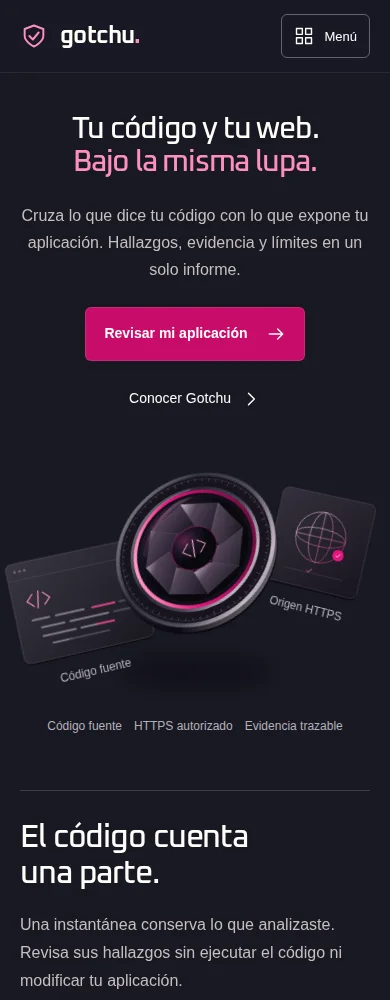
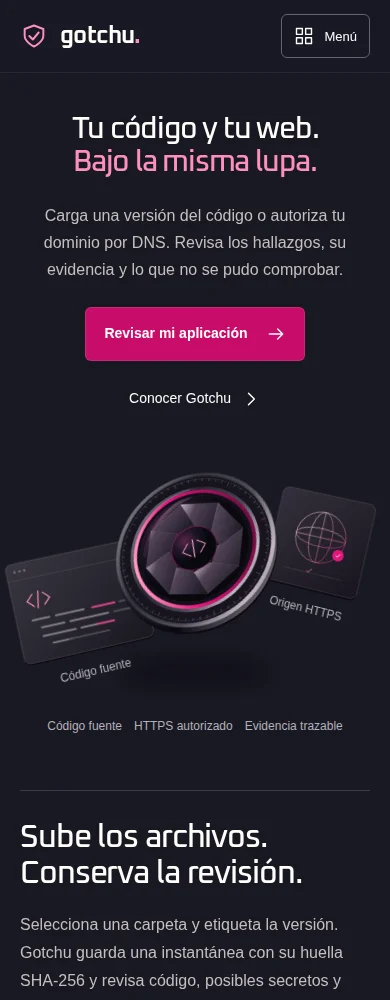
feat(web): make actual assessment workflows visible on the landing

Changed region(s): [[0.0615, 0.806, 0.8923, 0.992], [0.0615, 0.186, 0.9231, 0.279]]

diff --git a/apps/web/src/components/landing.tsx b/apps/web/src/components/landing.tsx
@@ -1,17 +1,18 @@
 import { useRef, useState, type KeyboardEvent } from 'react';
 import { Brand, UiIcon } from './ui';
 import { EvidenceLens, useChapterTracking } from './evidence-lens';
+import { ProductFlow } from './product-flow';
 import './landing.css';
 
 const perspectives = [
-  { id: 'code', label: 'Código', title: 'Lo que está en tu código.', description: 'Revisa una instantánea de tu aplicación sin ejecutarla. Conserva la versión analizada y la evidencia de cada hallazgo.', facts: ['Instantáneas inmutables', 'Análisis sin ejecutar tu código', 'Hallazgos vinculados a evidencia'], icon: 'code' },
-  { id: 'https', label: 'HTTPS', title: 'Lo que responde tu aplicación.', description: 'Evalúa la superficie HTTPS de un origen que controlas. Puedes empezar sin compartir el código fuente.', facts: ['Autorización mediante DNS', 'Evaluación sin acceso al código', 'Cobertura y límites por comprobación'], icon: 'globe' },
+  { id: 'code', label: 'Código', title: 'Lo que está en tu código.', description: 'Revisa una instantánea de tu aplicación sin ejecutarla. Conserva la versión analizada y la evidencia de cada hallazgo.', facts: ['Patrones de código y posibles secretos', 'Avisos de dependencias cuando están disponibles', 'Revisión y huella de los archivos analizados'], icon: 'code' },
+  { id: 'https', label: 'HTTPS', title: 'Lo que responde tu aplicación.', description: 'Revisa la respuesta HTTPS de un origen que controlas, sin cookies ni redirecciones. Puedes empezar sin compartir el código fuente.', facts: ['Autorización mediante DNS', 'Evaluación sin acceso al código', 'Cobertura y límites por comprobación'], icon: 'globe' },
   { id: 'both', label: 'Ambas', title: 'Dos perspectivas. Un informe.', description: 'Contrasta las señales de la instantánea con las del origen autorizado. Identifica coincidencias y diferencias sin perder su procedencia.', facts: ['Evaluación interna y externa', 'Comparación de hallazgos', 'Evidencia de cada perspectiva'], icon: 'report' },
 ] as const;
 const chapters = [
-  { title: 'El código cuenta una parte.', text: 'Una instantánea conserva lo que analizaste. Revisa sus hallazgos sin ejecutar el código ni modificar tu aplicación.', detail: 'Código fuente', id: 'codigo' },
-  { title: 'Tu web cuenta otra.', text: 'Observa cómo responde el origen HTTPS que autorizaste. Una segunda perspectiva, incluso sin acceso al código.', detail: 'HTTPS autorizado', id: 'https' },
-  { title: 'La evidencia las conecta.', text: 'Encuentra qué se observó, dónde y con qué confianza. Compara ambas perspectivas y lleva el contexto a la siguiente revisión de tu equipo.', detail: 'Hallazgos · Cobertura · Comparación', id: 'evidencia' },
+  { title: 'Sube los archivos. Conserva la revisión.', text: 'Selecciona una carpeta y etiqueta la versión. Gotchu guarda una instantánea con su huella SHA-256 y revisa código, posibles secretos y dependencias según el perfil disponible.', detail: 'Instantánea', id: 'codigo' },
+  { title: 'Tu dominio. Tu autorización.', text: 'Registra un origen HTTPS, confirma que puedes evaluarlo y publica el registro TXT que te entrega Gotchu. La evaluación externa puede iniciarse sin subir código.', detail: 'Autorización DNS', id: 'https' },
+  { title: 'Del hallazgo a su evidencia.', text: 'Abre una observación para revisar su severidad, confianza, extractos y herramienta de origen. Consulta la cobertura, contrasta ambas perspectivas y descarga el informe completo en JSON.', detail: 'Informe y evidencia', id: 'evidencia' },
 ];
 const questions = [
   ['¿Tengo que compartir mi código?', 'No. Puedes evaluar únicamente un origen HTTPS autorizado. Para el análisis interno, cargas una instantánea del código que quieres revisar.'],
@@ -49,14 +50,14 @@ export function LandingPage() {
     <main id="contenido" tabIndex={-1}>
       <section className="g-hero" aria-labelledby="hero-title">
         <h1 id="hero-title">Tu código y tu web.<br /><span>Bajo la misma lupa.</span></h1>
-        <p className="g-hero-description">Cruza lo que dice tu código con lo que expone tu aplicación. Hallazgos, evidencia y límites en un solo informe.</p>
+        <p className="g-hero-description">Carga una versión del código o autoriza tu dominio por DNS. Revisa los hallazgos, su evidencia y lo que no se pudo comprobar.</p>
         <div className="g-hero-actions"><a className="g-button" href="/dashboard">Revisar mi aplicación <UiIcon name="arrow" /></a><a className="g-secondary-link" href="#perspectivas">Conocer Gotchu <UiIcon name="chevron" /></a></div>
         <EvidenceLens />
         <div className="g-hero-foot"><span>Código fuente</span><span>HTTPS autorizado</span><span>Evidencia trazable</span></div>
       </section>
       <section ref={container} className="g-journey g-container" aria-label="Del análisis a la evidencia">
-        <div className="g-journey-visual"><EvidenceLens compact perspective={active} /><div className="g-chapter-marker" aria-hidden="true">{chapters.map((chapter, index) => <span key={chapter.id} className={active === index ? 'is-current' : ''}><span />{chapter.detail}</span>)}</div></div>
-        <div className="g-chapters">{chapters.map((chapter, index) => <article key={chapter.id} id={chapter.id} data-chapter={index}><h2>{chapter.title}</h2><p>{chapter.text}</p></article>)}</div>
+        <div className="g-journey-visual"><ProductFlow step={active} /><div className="g-chapter-marker" aria-hidden="true">{chapters.map((chapter, index) => <span key={chapter.id} className={active === index ? 'is-current' : ''}><span />{chapter.detail}</span>)}</div></div>
+        <div className="g-chapters">{chapters.map((chapter, index) => <article key={chapter.id} id={chapter.id} data-chapter={index}><h2>{chapter.title}</h2><p>{chapter.text}</p><ProductFlow step={index} className="g-mobile-flow" /></article>)}</div>
       </section>
       <section id="perspectivas" className="g-perspectives" aria-labelledby="perspectives-title">
         <div className="g-container"><div className="g-perspectives-heading"><h2 id="perspectives-title">Empieza donde<br />lo necesitas.</h2><p>Una aplicación. Tres formas de revisarla.<br />Tú eliges el alcance.</p></div>
@@ -66,6 +67,7 @@ export function LandingPage() {
           </div>
         </div>
       </section>
+      <section className="g-workflow g-container" aria-labelledby="workflow-title"><h2 id="workflow-title">Cada revisión, en su sitio.</h2><dl><div><dt>Espacios y aplicaciones</dt><dd>Organiza tus aplicaciones por espacio de trabajo y conserva los permisos de cada rol.</dd></div><div><dt>Historial de evaluaciones</dt><dd>Sigue los trabajos en cola o en curso y vuelve a consultar los informes guardados.</dd></div><div><dt>Exportación JSON</dt><dd>Descarga el informe completo con sus hallazgos, evidencia, cobertura y limitaciones.</dd></div></dl><a className="g-secondary-link" href="/dashboard">Ir a mis aplicaciones <UiIcon name="arrow" /></a></section>
       <section id="preguntas" className="g-faq g-container" aria-labelledby="faq-title"><h2 id="faq-title">Antes de<br />dar el paso.</h2><div>{questions.map(([question, answer]) => <details key={question}><summary>{question}<span aria-hidden="true"><UiIcon name="plus" /></span></summary><p>{answer}</p></details>)}</div></section>
       <section className="g-closing" aria-labelledby="closing-title"><div className="g-container"><h2 id="closing-title">La próxima decisión.<br /><span>Con la evidencia a mano.</span></h2><a className="g-button" href="/dashboard">Empezar mi revisión <UiIcon name="arrow" /></a></div></section>
     </main>

diff --git a/apps/web/src/components/product-flow.css b/apps/web/src/components/product-flow.css
@@ -1,0 +1,58 @@
+.g-product-flow { position: relative; perspective: 1200px; padding: 18px 24px 22px 4px; }
+.g-flow-sheet { position: relative; min-height: 370px; background: var(--gc-surface); border: 1px solid var(--gc-line); border-radius: 6px; box-shadow: var(--gc-shadow-dialog); transform: rotateY(-5deg) rotateX(3deg); transform-style: preserve-3d; }
+.g-flow-sheet::before { content: ''; position: absolute; inset: 14px -13px -14px 13px; border: 1px solid var(--gc-line-soft); border-radius: inherit; background: var(--gc-raised); transform: translateZ(-14px); }
+.g-flow-sheet > header { display: flex; align-items: center; gap: 14px; padding: 22px 24px; border-bottom: 1px solid var(--gc-line-soft); }
+.g-flow-sheet > header > svg { color: var(--gc-accent-ink); flex-shrink: 0; }
+.g-flow-sheet h3 { font-size: 18px; line-height: 1.4; }
+.g-file-formats { display: flex; flex-wrap: wrap; gap: 8px; padding: 24px 24px 6px; }
+.g-file-formats code { padding: 7px 10px; border: 1px solid var(--gc-line); border-radius: 6px; font: 12px/1.5 var(--gc-font-code); color: var(--gc-paper); }
+.g-flow-fields { margin: 0; padding: 12px 24px; }
+.g-flow-fields > div { display: grid; grid-template-columns: 1fr 1.4fr; gap: 16px; padding-block: 16px; border-bottom: 1px solid var(--gc-line-soft); font-size: 14px; }
+.g-flow-fields > div:last-child { border-bottom: 0; }
+.g-flow-fields dt { color: var(--gc-paper); }
+.g-flow-fields dd { margin: 0; color: var(--gc-muted); }
+.g-source-checks { display: flex; flex-wrap: wrap; gap: 18px; padding: 4px 24px 24px; color: var(--gc-accent-ink); font-size: 12px; }
+.g-flow-sheet > footer { display: flex; align-items: center; gap: 10px; padding: 18px 24px; background: var(--gc-canvas); border-top: 1px solid var(--gc-line-soft); color: var(--gc-silver); font-size: 12px; border-radius: 0 0 6px 6px; }
+.g-flow-sheet > footer svg { color: var(--gc-accent-ink); flex-shrink: 0; }
+.g-flow-sheet > footer code { margin-left: auto; color: var(--gc-accent-ink); font-family: var(--gc-font-code); }
+.g-dns-record { margin: 24px; padding: 18px; background: var(--gc-canvas); border: 1px solid var(--gc-line-soft); border-radius: 6px; }
+.g-dns-record > span { display: block; color: var(--gc-muted); font-size: 12px; margin-bottom: 8px; }
+.g-dns-record code { color: var(--gc-accent-ink); font: 18px/1.5 var(--gc-font-code); overflow-wrap: anywhere; }
+.g-dns-steps { list-style: decimal; margin: 0; padding: 0 30px 22px 50px; font-size: 14px; }
+.g-dns-steps li { padding-block: 7px; color: var(--gc-silver); }
+.g-dns-steps li::marker { color: var(--gc-accent-ink); }
+.g-report-fields { padding-block: 6px; }
+.g-mobile-flow { display: none; }
+.g-workflow { padding-block: 76px 10px; }
+.g-workflow h2 { font-size: 32px; line-height: 1.25; letter-spacing: -.025em; }
+.g-workflow > dl { display: grid; grid-template-columns: repeat(3, 1fr); gap: 40px; margin: 34px 0 20px; }
+.g-workflow > dl > div { padding-top: 22px; border-top: 1px solid var(--gc-line); }
+.g-workflow dt { font-size: 18px; color: var(--gc-paper); margin-bottom: 12px; }
+.g-workflow dd { margin: 0; color: var(--gc-silver); font-size: 14px; }
+.g-workflow .g-secondary-link { color: var(--gc-accent-ink); }
+@media (prefers-reduced-motion: no-preference) {
+  .g-flow-sheet { animation: g-flow-change 200ms var(--gc-ease); }
+}
+@keyframes g-flow-change { from { opacity: .5; } to { opacity: 1; } }
+@media (max-width: 1050px) {
+  .g-product-flow { padding-right: 14px; }
+  .g-flow-sheet > header, .g-flow-sheet > footer { padding-inline: 18px; }
+  .g-flow-fields { padding-inline: 18px; }
+  .g-flow-fields > div { grid-template-columns: 1fr; gap: 6px; padding-block: 12px; }
+  .g-workflow > dl { gap: 24px; }
+}
+@media (max-width: 760px) {
+  .g-mobile-flow { display: block; margin-top: 24px; }
+  .g-product-flow { padding: 0 10px 14px 0; perspective: none; }
+  .g-flow-sheet { min-height: 0; transform: none; box-shadow: none; }
+  .g-flow-sheet::before { inset: 9px -9px -9px 9px; transform: none; z-index: -1; }
+  .g-flow-fields > div { grid-template-columns: 1fr 1.3fr; gap: 12px; }
+  .g-file-formats { padding-inline: 18px; gap: 6px; }
+  .g-file-formats code { padding: 6px 8px; }
+  .g-dns-record { margin-inline: 18px; }
+  .g-dns-record code { font-size: 16px; }
+  .g-workflow { padding-block: 44px 0; }
+  .g-workflow h2 { font-size: 28px; }
+  .g-workflow > dl { grid-template-columns: 1fr; gap: 24px; margin-top: 26px; }
+  .g-workflow > dl > div { padding-top: 18px; }
+}

diff --git a/apps/web/e2e/design.spec.ts b/apps/web/e2e/design.spec.ts
@@ -81,7 +81,7 @@ test('scroll narrative tracks chapters and does not trap page scrolling', async 
   await page.goto('/', { waitUntil: 'networkidle' });
   for (const [index, id] of ['codigo', 'https', 'evidencia'].entries()) {
     await page.locator(`#${id}`).evaluate(element => window.scrollTo(0, element.getBoundingClientRect().top + scrollY - innerHeight * .25));
-    if (!isMobile) await expect(page.locator('.g-scene-compact')).toHaveAttribute('data-perspective', String(index));
+    if (!isMobile) await expect(page.locator('.g-journey-visual .g-product-flow')).toHaveAttribute('data-step', String(index));
   }
   await page.locator('.g-footer').scrollIntoViewIfNeeded();
   await expect(page.getByRole('link', { name: 'Gotchu, volver al inicio' })).toBeVisible();
@@ -97,6 +97,27 @@ test('reduced motion and a 320px viewport retain all content without pointer or 
   await page.getByRole('tab', { name: 'HTTPS', exact: true }).click();
   await expect(page.getByRole('tabpanel')).toContainText('sin compartir el código fuente');
   expect(await page.locator('.g-hero h1').evaluate(element => getComputedStyle(element).animationName)).toBe('none');
+  await checkLayout(page); await checkA11y(page);
+});
+
+test('the product journey presents source versioning, DNS authorization and persisted report capabilities', async ({ page, isMobile }) => {
+  await page.goto('/', { waitUntil: 'networkidle' });
+  const steps = [
+    { id: 'codigo', title: 'Instantánea de código', text: 'Huella SHA-256' },
+    { id: 'https', title: 'Origen HTTPS', text: '_gotchu.<dominio>' },
+    { id: 'evidencia', title: 'Informe de evaluación', text: 'Extracto, herramienta y checksum' },
+  ];
+  for (const [index, step] of steps.entries()) {
+    await page.locator(`#${step.id}`).evaluate(element => window.scrollTo(0, element.getBoundingClientRect().top + scrollY - innerHeight * .25));
+    const flow = isMobile ? page.locator(`#${step.id} .g-mobile-flow`) : page.locator('.g-journey-visual .g-product-flow');
+    await expect(flow).toHaveAttribute('data-step', String(index));
+    await expect(flow.getByRole('heading', { name: step.title, exact: true })).toBeVisible();
+    await expect(flow).toContainText(step.text);
+  }
+  await expect(page.locator('.g-workflow')).toContainText('Historial de evaluaciones');
+  await expect(page.locator('.g-workflow')).toContainText('Exportación JSON');
+  await expect(page.getByRole('link', { name: 'Ir a mis aplicaciones', exact: true })).toHaveAttribute('href', '/dashboard');
+  await page.locator('.g-workflow').scrollIntoViewIfNeeded();
   await checkLayout(page); await checkA11y(page);
 });
 

diff --git a/apps/web/src/components/product-flow.tsx b/apps/web/src/components/product-flow.tsx
@@ -1,0 +1,24 @@
+import { UiIcon } from './ui';
+import './product-flow.css';
+
+/** Product structure only: no invented customer records, findings or verification results. */
+export function ProductFlow({ step, className = '' }: { step: number; className?: string }) {
+  return <div className={`g-product-flow ${className}`} data-step={step}>
+    {step === 0 ? <div className="g-flow-sheet" key="source">
+      <header><UiIcon name="code" size={24} /><h3>Instantánea de código</h3></header>
+      <div className="g-file-formats" aria-label="Formatos admitidos"><code>JS / TS</code><code>JSON</code><code>YAML</code><code>TOML</code></div>
+      <dl className="g-flow-fields"><div><dt>Revisión</dt><dd>La versión que compartes</dd></div><div><dt>Huella SHA-256</dt><dd>Identifica los archivos analizados</dd></div></dl>
+      <div className="g-source-checks"><span>Código</span><span>Secretos</span><span>Dependencias</span></div>
+      <footer><UiIcon name="shield" />Sin ejecutar código ni instalar paquetes</footer>
+    </div> : step === 1 ? <div className="g-flow-sheet" key="target">
+      <header><UiIcon name="globe" size={24} /><h3>Origen HTTPS</h3></header>
+      <div className="g-dns-record"><span>Registro TXT</span><code>{'_gotchu.<dominio>'}</code></div>
+      <ol className="g-dns-steps"><li>Confirmas la autorización</li><li>Publicas el registro DNS</li><li>Gotchu comprueba el dominio</li></ol>
+      <footer><UiIcon name="shield" />Autorización con vigencia y revocación</footer>
+    </div> : <div className="g-flow-sheet" key="report">
+      <header><UiIcon name="report" size={24} /><h3>Informe de evaluación</h3></header>
+      <dl className="g-flow-fields g-report-fields"><div><dt>Hallazgos</dt><dd>Severidad y confianza</dd></div><div><dt>Evidencia</dt><dd>Extracto, herramienta y checksum</dd></div><div><dt>Cobertura</dt><dd>Qué se inspeccionó y qué quedó fuera</dd></div><div><dt>Contraste</dt><dd>Observaciones internas y externas</dd></div></dl>
+      <footer><UiIcon name="report" /><span>Informe completo exportable</span><code>JSON</code></footer>
+    </div>}
+  </div>;
+}

diff --git a/apps/web/DESIGN.md b/apps/web/DESIGN.md
@@ -108,9 +108,9 @@ Oxanium is a product voice, not an instruction to typeset every paragraph as sci
 
 ## Layout
 
-The sequence is centered headline and original product object; a scroll-linked narrative with a sticky object and three real product distinctions; a light scope selector; native FAQ; a short closing action and typographic footer. Do not reuse the earlier split hero, boxed radial sculpture, ticker band or numbered-card grid.
+The sequence is centered headline and original product object; a scroll-linked narrative with concrete source-snapshot, DNS-authorization and report-anatomy panels; a light scope selector; native FAQ; a short closing action and typographic footer. Do not reuse the earlier split hero, boxed radial sculpture, ticker band or numbered-card grid.
 
-Container max is 1180px; side gutters are 56px above 1050px, 32px up to 1050px, and 20px up to 760px. The header uses its own wider 1300px shell. Desktop story holds the object beside the copy; mobile shows the hero object once and presents the three chapters as direct content, without sticky obstruction. Never hijack scrolling or require an animation to finish before continuing.
+Container max is 1180px; side gutters are 56px above 1050px, 32px up to 1050px, and 20px up to 760px. The header uses its own wider 1300px shell. Desktop holds the matching product panel beside each chapter; mobile places the corresponding panel directly below its paragraph. The lens appears once in the hero. No invented records, findings, tokens or verification statuses are shown. Never hijack scrolling or require an animation to finish before continuing.
 
 ## Elevation & Depth
 
@@ -123,7 +123,8 @@ Machined circles are specific to the lens; panels represent a source snapshot an
 ## Components
 
 - **Actions:** anchors navigate to the existing `/dashboard`; no waitlist or fake form. Press feedback is 160ms and scale .97. Fine-pointer hover shifts 2px; touch has no hover movement.
-- **Lens:** `EvidenceLens` uses Motion springs, duration .4 and bounce 0, on direct element transforms. Pointer response is fine-pointer-only. Scroll provides bounded 18px depth travel; the sticky story changes the spatial relationship at chapter boundaries. No React state updates per animation frame, no autonomous loops and no loader.
+- **Lens:** the hero `EvidenceLens` uses Motion springs, duration .4 and bounce 0, on direct element transforms. Pointer response is fine-pointer-only with bounded 18px scroll travel. No React state updates per animation frame, no autonomous loops and no loader.
+- **Product story:** `ProductFlow` shows actual snapshot formats/revision/digest, the authorization/TXT procedure, then real report fields and JSON export. A 200ms opacity change connects chapter changes; readable data is never fabricated. Mobile renders each panel in place. Workflow rows below describe workspace/application organization, job history and JSON export. Panels illustrate product structure, not an active customer session.
 - **Scope selector:** three ARIA tabs; ArrowLeft/Right and Home/End move focus and selection. All controlled panels exist. Pointer selection gets a 200ms opacity crossfade; keyboard selection remains immediate.
 - **FAQ:** native details/summary, Enter/Space support, 200ms disclosure with a non-animated fallback. Responses explain actual scope rather than making guarantees.
 - **Menu:** native button, explicit expanded state, Escape returns focus. No modal and no focus trap because the page remains available.

diff --git a/apps/web/design/landing.direction.md b/apps/web/design/landing.direction.md
@@ -3,7 +3,7 @@
 - **Surface and mode:** `/`, Persuade → Understand → Act. A person maintaining a real application should understand the three assessment modes and reach `/dashboard` without a fabricated result or forced tour.
 - **Visual authority:** original evidence-lens world, graphite/magenta/porcelain. The earlier supplied site is a palette reference, not a layout or asset template. Apple and Churupitos are interaction studies only; no borrowed images, code or initial loader.
 - **Content:** compare source and HTTPS observations with evidence; never claim ongoing monitoring, automated fixes, attack confirmation or complete coverage. User forbids explanatory artwork and mock-interface captions. Therefore do not fabricate an interface or report that needs one.
-- **Signature moment:** a layered optical instrument responds to pointer input, then accompanies the desktop scroll story. Source and origin layers change relationship to explain separate perspectives. Touch and reduced motion keep a complete static presentation.
+- **Signature moment:** a layered optical instrument responds to pointer input in the hero. The scroll story then shows concrete product panels for a source snapshot, DNS authorization and the report structure. Touch presents each panel inline; reduced motion removes the transition.
 - **Boundaries:** only landing, local design context, reusable presentation helpers and tests. Customer/demo UI, backend, permissions, auth and all production deployment remain untouched.
 
 ## Motion decisions
@@ -12,7 +12,7 @@
 | --- | --- | --- | --- |
 | Hero group | Arrival / first-time orientation | Rare | Transform 8px and opacity .6→1, 600ms strong ease-out, 60ms stagger; immediately usable |
 | Lens pointer response | Spatial consistency and first-visit delight | Rare marketing exploration | Two interruptible Motion springs, duration .4, bounce 0; ±6°/±4°; fine pointer only |
-| Lens scroll story | Explain source/HTTPS/evidence relationship | Once per visit | Native sticky; chapter observer; 500ms transform retargeting and 300ms opacity; bounded 18px depth travel |
+| Product scroll story | Explain actual snapshot, authorization and report workflow | Once per visit | Native sticky; chapter observer; 200ms opacity on panel changes; static inline panels on mobile |
 | Scope selection | Prevent abrupt change | Occasional | 200ms opacity crossfade for pointer; keyboard updates immediately |
 | Press / hover | Immediate feedback | Frequent | .97 press scale, 160ms token ease; 2px hover lift only with fine pointer |
 | FAQ | State indication | Occasional | 200ms native disclosure; static fallback and reduced-motion variant |
@@ -25,6 +25,7 @@ Rejected: moving paragraphs, perpetual lens rotation, animated invented metrics,
 - Three assets: `public/landing/evidence-lens.svg`, `source-snapshot.svg`, `https-origin.svg`.
 - Spatial behavior: `src/components/evidence-lens.tsx`.
 - Content and interaction: `src/components/landing.tsx`.
+- Verified product panels: `src/components/product-flow.tsx` and `product-flow.css`; source of truth is `customer-dashboard.tsx` SourceEnrollment, TargetEnrollment and ReportView, plus `docs/architecture.md`.
 - Theme and motion: `src/components/landing.css`, `src/styles/tokens.css`.
 - Regression gate: `e2e/design.spec.ts` plus `test/ui.test.ts`.
 

diff --git a/apps/web/design/landing.audit.md b/apps/web/design/landing.audit.md
@@ -12,7 +12,7 @@ Scope: public `/` and local design context only. Customer/demo presentation, bac
 ## Verification exercised
 
 - Monorepo `pnpm build`, `pnpm typecheck` and `pnpm test` passed at `6bbafff`: 265 tests passed; 99 infrastructure-dependent cases were skipped by their normal configuration. These skipped cases are not live-infrastructure evidence.
-- After integrating the Codex visual refinement: web typecheck, all 48 web tests, the production web build and all 14 Playwright desktop/mobile cases passed again.
+- After integrating the Codex visual refinement: web typecheck, all 48 web tests, the production web build and all 14 Playwright desktop/mobile cases passed again at `7b1029a`.
 - The browser cases include axe checks, pointer tilt/reset, native scrolling through all chapters, ARIA tabs with pointer/keyboard, mobile menu/Escape, FAQ, CTA destinations, a 320px reduced-motion viewport and server-rendered content without JavaScript. Test projections do not replace real-device testing.
 - Impeccable detector returned `[]` for the final landing TSX, CSS and lens component.
 - Real desktop/mobile screenshots were inspected after integration. The story and scope states were exercised while recording a Chromium walkthrough; the screenshots in `screenshots/` are actual renders.
@@ -20,6 +20,12 @@ Scope: public `/` and local design context only. Customer/demo presentation, bac
 ## Collaborator and final refinements
 
 Codex `gpt-5.6-terra` at high reasoning supplied a read-only patch after Bubblewrap proved unavailable on this host. Parent reviewed/applied the exact file changes and regenerated the assets. The patch adds an optical reflection and glass rim, separates the source/origin planes, softens pointer tilt to ±6°/±4°, and initializes/reapplies the transform when motion preferences change. The collaborator did not edit the worktree or independently execute browser validation. Requested Astra model IDs were rejected by this account; no Astra contribution is claimed.
+
+## Product-capability expansion
+
+The repeated lens in the scroll story was replaced with `ProductFlow`, using actual customer UI concepts: supported source formats, revision and SHA-256; TXT authorization at `_gotchu.<domain>`; report severity/confidence, evidence/tool/checksum, coverage, comparison and JSON export. Supporting rows expose workspace/application organization and queued-job/report history. No invented finding, verification result or download is displayed.
+
+Sources: `customer-dashboard.tsx:162–211` (DNS), `231–289` (source), `293–334` (report/export), and `docs/architecture.md:41–75`. The final capability expansion passed 48 web tests, web typecheck/build and 16 desktop/mobile browser cases. All three product panels were also rendered at 1280px, 390px and 320px with no panel/page overflow or browser errors; representative renders were inspected. Impeccable reported `[]` after the radius scale was aligned.
 
 ## Remaining limits
 
